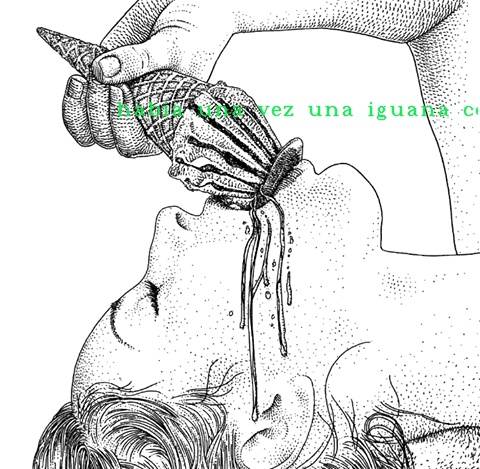
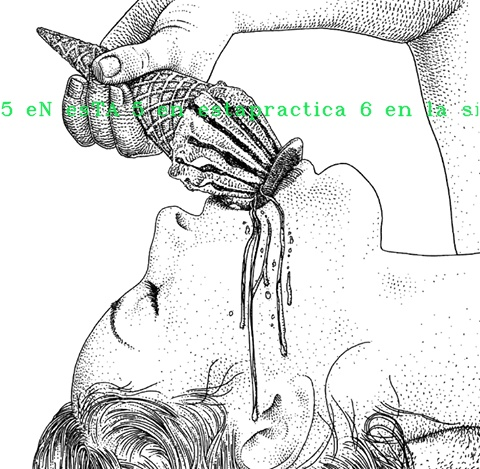
Calculating new font size to make it fit

Changed region(s): [[0.4062, 0.209, 0.9375, 0.2687], [0.0, 0.209, 0.375, 0.2687], [0.9688, 0.209, 1.0, 0.2687]]

diff --git a/FINAL_OPENCV/includes.cpp b/FINAL_OPENCV/includes.cpp
@@ -47,7 +47,7 @@ int writeimage(char* arg){
 	string label= arg++;
 	putText(imagen, 
             label,
-            Point(115,115), // Coordinates
+            Point(0,115), // Coordinates
             cv::FONT_HERSHEY_COMPLEX_SMALL, // Font
             1.0, // Scale. 2.0 = 2x bigger
             Scalar(81, 229, 18), // Color
@@ -89,15 +89,47 @@ int saveimg(char* arg){
 
 extern "C"
 int gettextdims(char* arg){
-	double scale = ((float)(height-3))/20.0;
+	/*int baseline = 0;
+	double scale = 0;
+	//double scale = ((float)(height-3))/20.0;
 	Size textSize = getTextSize(arg++, 
-	FONT_HERSHEY_COMPLEX_SMALL, scale, 1, &bottom);  //Geting text rect
+	FONT_HERSHEY_COMPLEX_SMALL, scale, 1, &baseline);  //Geting text rect
 	dtext.c = textSize.width;
 	dtext.r = textSize.height;
-	int dimstext[2];
-	dimstext[1] = dtext.r;
-	dimstext[0] = dtext.c;
-	return *dimstext;
+	if(dtext.c < d.c or dtext.c == d.c){
+		printf("True");		
+		return 1;
+	}
+	return 0;*/
+
+	/*int width = imagen.size().width;
+	int height = imagen.size().height;
+
+	int baseline = 0;
+	double scale = 0;
+	Size textSize = getTextSize(arg++, 
+	FONT_HERSHEY_COMPLEX_SMALL, scale, 1, &baseline);  //Geting text rect
+	int textwidth = textSize.width;
+	int textheight = textSize.height;
+	cout << (width)<< endl;
+	cout << (textwidth) << endl;
+	if(textwidth < width or textwidth == width){	
+		return 1;
+	}	
+	return 0;*/
+
+	int baseline = 0;
+	Size textSize = getTextSize(arg, 
+	FONT_HERSHEY_COMPLEX_SMALL,0.99,2,&baseline);  //Geting text rect
+	int textwidth = textSize.width;
+	int textheight = textSize.height;
+	cout << (arg)<< endl;
+	cout << (imagen.cols)<< endl;
+	cout << (textSize.width) << endl;
+	if(imagen.cols - textSize.width < 0 ){	
+		return 0;
+	}	
+	return 1;	
 }
 
 extern "C" 
@@ -109,6 +141,6 @@ int getdims(){
 }
 
 extern "C" 
-void pixchange(int p1, int p2){
-	datas[p1] = datas[p2]; // Swaps a couple of channels between pixels
+void pixchange(){
+	printf("Mañaaana tiene que calcular el tamaño!!!!!! pinche!");
 }
